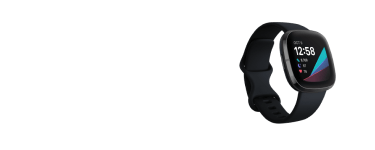
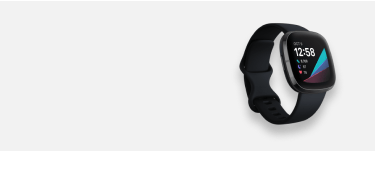
Debugging.

Changed region(s): [[0.616, 0.1333, 0.9093, 0.8267]]

diff --git a/scrolling-ad.css b/scrolling-ad.css
@@ -26,7 +26,6 @@ body {
     margin: 0px 0px;
 }
 
-
 .article-headline {
     margin: 20px 20px;
 }
@@ -36,8 +35,12 @@ body {
 }
 
 .sticky-bottom {
-    position: sticky;
-    bottom: 0px;
+  position: -webkit-sticky;
+  position: -moz-sticky;
+  position: -o-sticky;
+  position: -ms-sticky;
+  position: sticky;
+  bottom: 0px;
 }
 
 
@@ -47,6 +50,7 @@ body {
 }
 
 .ad-slot {
+    /* background-image: url(assets/fitbit-product.png); */
     width: 100%;
     height: var(--ad-slot-height);
     overflow-x: hidden;
@@ -75,7 +79,7 @@ body {
     background: rgb(255,255,255);
     background: linear-gradient(180deg, rgba(255,255,255,0.9) 0%, rgb(199, 199, 199) 100%);
     position: relative;
-    border:none;
+    border: none;
     perspective: 300px; 
     top: 0;
     right: 0;
@@ -86,6 +90,9 @@ body {
 
   #sticky-ad-element {
       position: -webkit-sticky;
+      position: -moz-sticky;
+      position: -o-sticky;
+      position: -ms-sticky;
       position: sticky; 
       bottom: 0px;
       transform: translateX(200px);
@@ -115,18 +122,30 @@ body {
   }
 
   .sticky-one {
-      position: sticky;
-      top: calc((var(--ad-slot-height)/3)*-1);
+    position: -webkit-sticky;
+    position: -moz-sticky;
+    position: -o-sticky;
+    position: -ms-sticky;
+    position: sticky; 
+    top: calc((var(--ad-slot-height)/3)*-1);
   }
 
   .sticky-two {
+    position: -webkit-sticky;
+    position: -moz-sticky;
+    position: -o-sticky;
+    position: -ms-sticky;
     position: sticky;
     top: calc((var(--ad-slot-height)/3)*-2); 
   }
 
   .sticky-three {
-      position: sticky;
-      top: calc((var(--ad-slot-height)/3)*-3);
+    position: -webkit-sticky;
+    position: -moz-sticky;
+    position: -o-sticky;
+    position: -ms-sticky;
+    position: sticky;
+    top: calc((var(--ad-slot-height)/3)*-3);
   }
 
   #slot-one {

diff --git a/scrolling-ad.js b/scrolling-ad.js
@@ -57,8 +57,8 @@ let distanceToBottomOfAdContainer = getDistanceToBottomOfAdSlot()
 window.addEventListener('scroll', function (event) {   
     // The ad is raised up after the user starts to scroll
     adSlot.classList.add('raise-ad')
-    let stickyAdElement = document.getElementById('sticky-ad-element');
-    stickyAdElement.classList.add('glow-enter');
+    // let stickyAdElement = document.getElementById('sticky-ad-element');
+    // stickyAdElement.classList.add('glow-enter');
 
     // Once the adSlot is in view it will stick to the bottom of the screen during animation
     if (isInViewport(adSlot)) {

diff --git a/index.html b/index.html
@@ -27,6 +27,7 @@
     <div id="ad-container">
         <div class="ad-slot" id="ad-slot">
             <div class="canvas">
+              <!-- <img id="sticky-ad-element" src="assets/fitbit-product.png" /> -->
                 <img id="pixel" >
                 <div id="slot-one">
                     <img src="assets/slot-one.png" />
@@ -38,7 +39,7 @@
                     <img src="assets/slot-three.png" />
                 </div>
             </div>
-            <img id="sticky-ad-element" src="assets/fitbit-product.png" />
+            
         </div>
         
     </div>
